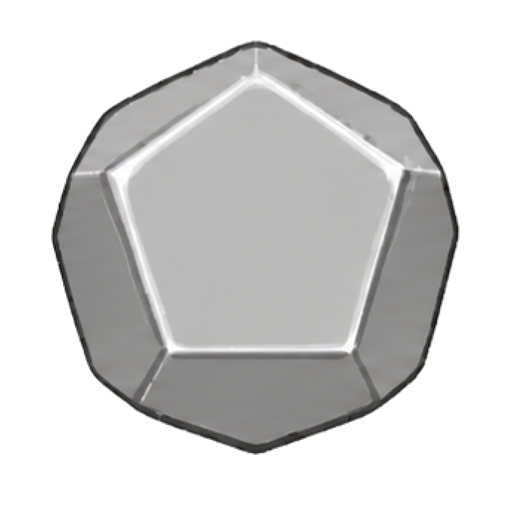
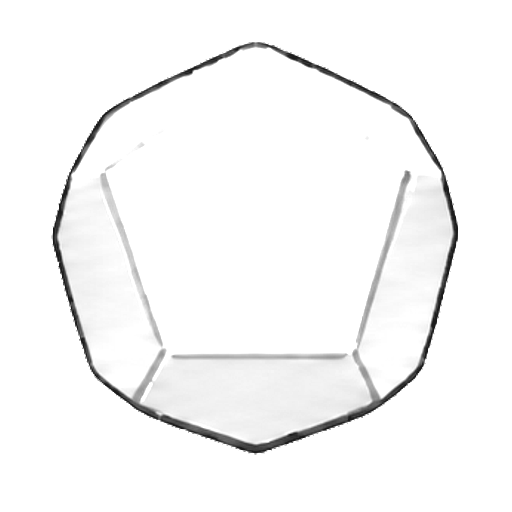
Simplify dice to solid colour rendering

diff --git a/src/CoreRulesModern/Views/DiceRollerWindow.xaml.cs b/src/CoreRulesModern/Views/DiceRollerWindow.xaml.cs
@@ -24,10 +24,8 @@ public partial class DiceRollerWindow : Window
     private bool _scaleLoading;
     private string _interfaceScalePreference = "Auto";
     private string _lastResult = string.Empty;
-    private bool _editingSecondaryColour;
     private Border? _colourSample;
     private Button? _primaryColourButton;
-    private Button? _secondaryColourButton;
     private List<DieSpec>? _rollingBatch;
     private static readonly string[] Colours = ["#E9D8AE", "#A72222", "#235DA8", "#2C7A43", "#6D3B91", "#C28C24", "#222222", "#EFEFEF", "#168A91", "#B04470"];
     private const int TrayBatchCapacity = 21;
@@ -188,13 +186,10 @@ public partial class DiceRollerWindow : Window
 
     private void BuildColourButtons()
     {
-        var primary = new Button { Content = "1", Width = 25, Height = 22, Margin = new Thickness(1), ToolTip = "Edit the main die colour" };
-        primary.Click += (_, _) => { _editingSecondaryColour = false; RefreshColourSample(); };
-        var secondary = new Button { Content = "2", Width = 25, Height = 22, Margin = new Thickness(1), ToolTip = "Edit the speckle colour" };
-        secondary.Click += (_, _) => { _editingSecondaryColour = true; RefreshColourSample(); };
-        _primaryColourButton = primary; _secondaryColourButton = secondary;
-        ColourPanel.Children.Add(primary); ColourPanel.Children.Add(secondary);
-        var customButton = new Button { Content = "CUSTOM…", Style = (Style)FindResource("AntiqueButton"), Padding = new Thickness(7, 4, 7, 4), ToolTip = "Choose any colour using a hex value" };
+        var primary = new Button { Width = 34, Height = 24, Margin = new Thickness(1), ToolTip = "Current die colour" };
+        _primaryColourButton = primary;
+        ColourPanel.Children.Add(primary);
+        var customButton = new Button { Content = "CUSTOM…", Style = (Style)FindResource("AntiqueButton"), Padding = new Thickness(7, 4, 7, 4), ToolTip = "Choose any die colour" };
         customButton.Click += CustomColour_Click;
         ColourPanel.Children.Add(customButton);
         foreach (var hex in Colours)
@@ -203,14 +198,14 @@ public partial class DiceRollerWindow : Window
             button.Click += (_, _) =>
             {
                 if (_selectedDie is null) return;
-                if (_editingSecondaryColour) _selectedDie.SecondaryColourHex = hex; else _selectedDie.ColourHex = hex;
+                _selectedDie.ColourHex = hex;
                 _store.SavePools(_pools);
                 RefreshColourSample();
                 RenderTray();
             };
             ColourPanel.Children.Add(button);
         }
-        _colourSample = new Border { Width = 54, Height = 24, Margin = new Thickness(5, 1, 1, 1), BorderBrush = Brushes.Black, BorderThickness = new Thickness(1), ToolTip = "Current two-colour die sample" };
+        _colourSample = new Border { Width = 54, Height = 24, Margin = new Thickness(5, 1, 1, 1), BorderBrush = Brushes.Black, BorderThickness = new Thickness(1), ToolTip = "Current die colour" };
         ColourPanel.Children.Add(_colourSample);
     }
 
@@ -220,19 +215,12 @@ public partial class DiceRollerWindow : Window
         if (_primaryColourButton is not null)
         {
             _primaryColourButton.Background = BrushFromHex(_selectedDie.ColourHex);
-            _primaryColourButton.Foreground = ContrastBrush(_selectedDie.ColourHex);
-            _primaryColourButton.BorderBrush = _editingSecondaryColour ? Brushes.Black : Brushes.Gold;
-            _primaryColourButton.BorderThickness = new Thickness(_editingSecondaryColour ? 1 : 3);
+            _primaryColourButton.BorderBrush = Brushes.Gold;
+            _primaryColourButton.BorderThickness = new Thickness(3);
+            _primaryColourButton.ToolTip = $"Current die colour: {_selectedDie.ColourHex}";
         }
-        if (_secondaryColourButton is not null)
-        {
-            _secondaryColourButton.Background = BrushFromHex(_selectedDie.SecondaryColourHex);
-            _secondaryColourButton.Foreground = ContrastBrush(_selectedDie.SecondaryColourHex);
-            _secondaryColourButton.BorderBrush = _editingSecondaryColour ? Brushes.Gold : Brushes.Black;
-            _secondaryColourButton.BorderThickness = new Thickness(_editingSecondaryColour ? 3 : 1);
-        }
-        _colourSample.Background = CreateSpeckleBrush(_selectedDie.ColourHex, _selectedDie.SecondaryColourHex);
-        _colourSample.BorderBrush = _editingSecondaryColour ? Brushes.Gold : Brushes.Black;
+        _colourSample.Background = BrushFromHex(_selectedDie.ColourHex);
+        _colourSample.BorderBrush = Brushes.Black;
     }
 
     private void DieModifierDown_Click(object sender, RoutedEventArgs e) => SetDieModifier(ReadSignedValue(DieModifierBox.Text) - 1);
@@ -257,10 +245,9 @@ public partial class DiceRollerWindow : Window
     private void CustomColour_Click(object sender, RoutedEventArgs e)
     {
         if (_selectedDie is null) return;
-        var current = _editingSecondaryColour ? _selectedDie.SecondaryColourHex : _selectedDie.ColourHex;
-        var selected = PickColour(current);
+        var selected = PickColour(_selectedDie.ColourHex);
         if (selected is null) return;
-        if (_editingSecondaryColour) _selectedDie.SecondaryColourHex = selected; else _selectedDie.ColourHex = selected;
+        _selectedDie.ColourHex = selected;
         _store.SavePools(_pools);
         RefreshColourSample();
         RenderTray();
@@ -588,10 +575,9 @@ public partial class DiceRollerWindow : Window
         var maskUri = new Uri($"pack://application:,,,/CoreRulesLibrary;component/Assets/DiceRoller/DieFace-{assetName}-Mask.png", UriKind.Absolute);
         var mask = new ImageBrush(new BitmapImage(maskUri)) { Stretch = Stretch.Uniform };
         var colourLayer = new Border { Width = size, Height = size, Background = BrushFromHex(die.ColourHex), OpacityMask = mask, IsHitTestVisible = false };
-        var speckleLayer = new Border { Width = size, Height = size, Background = CreateSpeckleBrush(Colors.Transparent.ToString(), die.SecondaryColourHex), OpacityMask = mask, IsHitTestVisible = false };
         var face = new Image
         {
-            Source = new BitmapImage(faceUri), Width = size, Height = size, Stretch = Stretch.Uniform, Opacity = 0.48, IsHitTestVisible = false,
+            Source = new BitmapImage(faceUri), Width = size, Height = size, Stretch = Stretch.Uniform, Opacity = 1, IsHitTestVisible = false,
             Effect = new DropShadowEffect { Color = die == _selectedDie ? Color.FromRgb(224, 175, 65) : Colors.Black, BlurRadius = die == _selectedDie ? 18 : 11, ShadowDepth = die == _selectedDie ? 0 : 6, Opacity = 0.95 }
         };
         var numeralTop = die.Sides switch { 4 => .37, 8 => .25, 10 => .24, 12 => .30, 20 => .38, 100 => .35, _ => .40 };
@@ -599,7 +585,7 @@ public partial class DiceRollerWindow : Window
         var numeralX = die.Sides == 12 ? size * -.035 : 0;
         var number = new TextBlock { Text = DisplayNumber(die), FontFamily = DiceNumeralFont, FontSize = size * numeralSize, FontWeight = FontWeights.Bold, Foreground = ContrastBrush(die.ColourHex), HorizontalAlignment = HorizontalAlignment.Center, VerticalAlignment = VerticalAlignment.Top, Margin = new Thickness(0, size * numeralTop, 0, 0), RenderTransform = new TranslateTransform(numeralX, 0), Effect = new DropShadowEffect { Color = Colors.White, BlurRadius = 2, ShadowDepth = 0, Opacity = 0.55 }, IsHitTestVisible = false };
         var label = new TextBlock { Text = string.IsNullOrWhiteSpace(die.Label) ? $"d{die.Sides}" : $"d{die.Sides} · {die.Label}", Foreground = Brushes.White, FontSize = Math.Max(11, size * .095), FontWeight = FontWeights.SemiBold, HorizontalAlignment = HorizontalAlignment.Center, VerticalAlignment = VerticalAlignment.Bottom, TextTrimming = TextTrimming.CharacterEllipsis, MaxWidth = size, Effect = new DropShadowEffect { Color = Colors.Black, BlurRadius = 3, ShadowDepth = 1, Opacity = 1 }, IsHitTestVisible = false };
-        grid.Children.Add(colourLayer); grid.Children.Add(speckleLayer); grid.Children.Add(face);
+        grid.Children.Add(colourLayer); grid.Children.Add(face);
         if (die.Quantity > 1) grid.Children.Add(new TextBlock { Text = $"{die.Quantity}×", FontFamily = DiceNumeralFont, FontSize = size * .19, FontWeight = FontWeights.Bold, Foreground = Brushes.White, HorizontalAlignment = HorizontalAlignment.Left, VerticalAlignment = VerticalAlignment.Top, Margin = new Thickness(2, 4, 0, 0), Effect = new DropShadowEffect { Color = Colors.Black, BlurRadius = 4, ShadowDepth = 2, Opacity = 1 }, IsHitTestVisible = false });
         if (showNumber) grid.Children.Add(number);
         grid.Children.Add(label);
@@ -639,17 +625,6 @@ public partial class DiceRollerWindow : Window
             catch (ArgumentException) { }
         }
         return new FontFamily("Book Antiqua");
-    }
-
-    private static Brush CreateSpeckleBrush(string baseHex, string speckleHex)
-    {
-        var group = new DrawingGroup();
-        if (!string.Equals(baseHex, Colors.Transparent.ToString(), StringComparison.OrdinalIgnoreCase))
-            group.Children.Add(new GeometryDrawing(BrushFromHex(baseHex), null, new RectangleGeometry(new Rect(0, 0, 24, 24))));
-        var brush = BrushFromHex(speckleHex);
-        foreach (var point in new[] { new Point(3, 4), new Point(9, 2), new Point(16, 7), new Point(21, 3), new Point(6, 13), new Point(13, 17), new Point(20, 14), new Point(2, 21), new Point(18, 23) })
-            group.Children.Add(new GeometryDrawing(brush, null, new EllipseGeometry(point, 1.8, 1.4)));
-        return new DrawingBrush(group) { TileMode = TileMode.Tile, Viewport = new Rect(0, 0, 24, 24), ViewportUnits = BrushMappingMode.Absolute, Stretch = Stretch.None };
     }
 
     private static Brush ContrastBrush(string hex)
